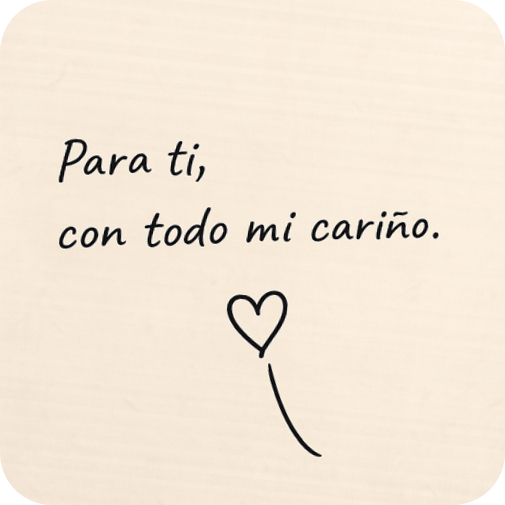
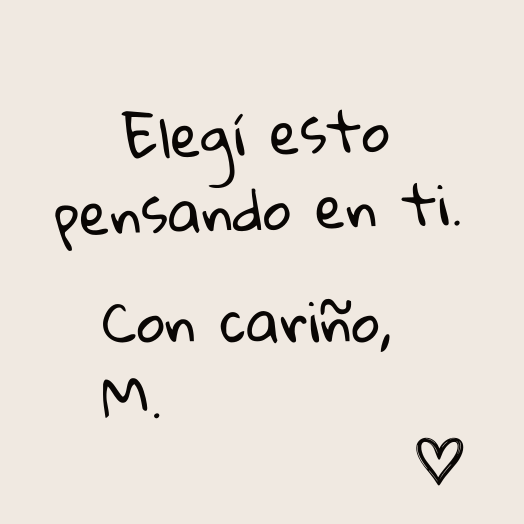
Ameliore la hierarchie visuelle de la section "Todo en una sola caja"
Ajoute un titre "Dentro encontraras" au-dessus des 3 cartes, remplace
le style majuscules/tracking-wide des libelles par une hierarchie plus
sobre, rapproche "Lista para regalar." de la box, agrandit le H1 et
allege l'ombre de la box.

diff --git a/src/sections/whats-included/WhatsIncluded.tsx b/src/sections/whats-included/WhatsIncluded.tsx
@@ -100,7 +100,7 @@ export default function WhatsIncluded() {
 
         <div className="max-w-[1100px] mx-auto px-6">
 
-          <h2 className="text-ink text-[28px] sm:text-[34px] md:text-[42px] font-semibold leading-[1.15] tracking-tight max-w-[420px] mb-2">
+          <h2 className="text-ink text-[34px] sm:text-[42px] md:text-[52px] font-semibold leading-[1.1] tracking-tight max-w-[480px] mb-2">
             Todo en una sola caja.
           </h2>
 
@@ -118,8 +118,8 @@ export default function WhatsIncluded() {
 
             <div className="relative w-full aspect-[10/13.5]">
 
-              {/* Lista para regalar. — to the left of the box, vertically centered on it */}
-              <p className="absolute z-40 left-[-2%] top-[16%] w-[15%] text-right font-hand text-ink/90 text-[16px] sm:text-[20px] md:text-[26px] leading-snug -rotate-2">
+              {/* Lista para regalar. — to the left of the box, vertically centered on it, drawn in closer so it reads as tied to the box */}
+              <p className="absolute z-40 left-[4%] top-[16%] w-[13%] text-right font-hand text-ink/90 text-[16px] sm:text-[20px] md:text-[26px] leading-snug -rotate-2">
                 Lista para regalar.
               </p>
 
@@ -139,7 +139,7 @@ export default function WhatsIncluded() {
                   src="/images/box-includes/vivabox-caja-regalo.png"
                   alt="Caja de regalo Vivabox con catálogo de experiencias"
                   fill
-                  className="object-contain drop-shadow-[16px_22px_16px_rgba(24,20,15,0.34)]"
+                  className="object-contain drop-shadow-[12px_16px_14px_rgba(24,20,15,0.24)]"
                   priority
                 />
               </div>
@@ -189,32 +189,37 @@ export default function WhatsIncluded() {
                 </div>
               </div>
 
+              {/* Dentro encontrarás — small section lead-in, centered between the box and the three cards */}
+              <p className="absolute z-40 inset-x-0 top-[53.5%] text-center text-ink/80 font-sans font-semibold tracking-tight text-[14px] sm:text-[16px] md:text-[19px]">
+                Dentro encontrarás
+              </p>
+
               {/* Catálogo / De experiencias. — close above the catalogue card (card spans 2%-32%) */}
-              <div className="absolute z-40 left-[2%] top-[56.5%] w-[30%] text-center leading-snug">
-                <h3 className="font-sans uppercase tracking-wide font-semibold text-ink/70 text-[11px] sm:text-[13px] md:text-[14px]">
+              <div className="absolute z-40 left-[2%] top-[58.5%] w-[30%] text-center leading-snug">
+                <h3 className="font-sans font-semibold text-ink text-[13px] sm:text-[15px] md:text-[17px] tracking-tight">
                   Catálogo
                 </h3>
-                <p className="font-sans text-ink/65 text-[10px] sm:text-[11px] md:text-[12px] font-normal mt-0.5">
+                <p className="font-sans text-ink/55 text-[11px] sm:text-[12px] md:text-[13px] font-normal mt-0.5 md:mt-1">
                   De experiencias.
                 </p>
               </div>
 
               {/* Mensaje / Personal. — close above the message card (card spans 35%-65%) */}
-              <div className="absolute z-40 left-[35%] top-[56.5%] w-[30%] text-center leading-snug">
-                <h3 className="font-sans uppercase tracking-wide font-semibold text-ink/70 text-[11px] sm:text-[13px] md:text-[14px]">
+              <div className="absolute z-40 left-[35%] top-[58.5%] w-[30%] text-center leading-snug">
+                <h3 className="font-sans font-semibold text-ink text-[13px] sm:text-[15px] md:text-[17px] tracking-tight">
                   Mensaje
                 </h3>
-                <p className="font-sans text-ink/65 text-[10px] sm:text-[11px] md:text-[12px] font-normal mt-0.5">
+                <p className="font-sans text-ink/55 text-[11px] sm:text-[12px] md:text-[13px] font-normal mt-0.5 md:mt-1">
                   Personal.
                 </p>
               </div>
 
               {/* Activación / Código único. — close above the activation card (card spans 68%-98%) */}
-              <div className="absolute z-40 left-[68%] top-[56.5%] w-[30%] text-center leading-snug">
-                <h3 className="font-sans uppercase tracking-wide font-semibold text-ink/70 text-[11px] sm:text-[13px] md:text-[14px]">
+              <div className="absolute z-40 left-[68%] top-[58.5%] w-[30%] text-center leading-snug">
+                <h3 className="font-sans font-semibold text-ink text-[13px] sm:text-[15px] md:text-[17px] tracking-tight">
                   Activación
                 </h3>
-                <p className="font-sans text-ink/65 text-[10px] sm:text-[11px] md:text-[12px] font-normal mt-0.5">
+                <p className="font-sans text-ink/55 text-[11px] sm:text-[12px] md:text-[13px] font-normal mt-0.5 md:mt-1">
                   Código único.
                 </p>
               </div>
